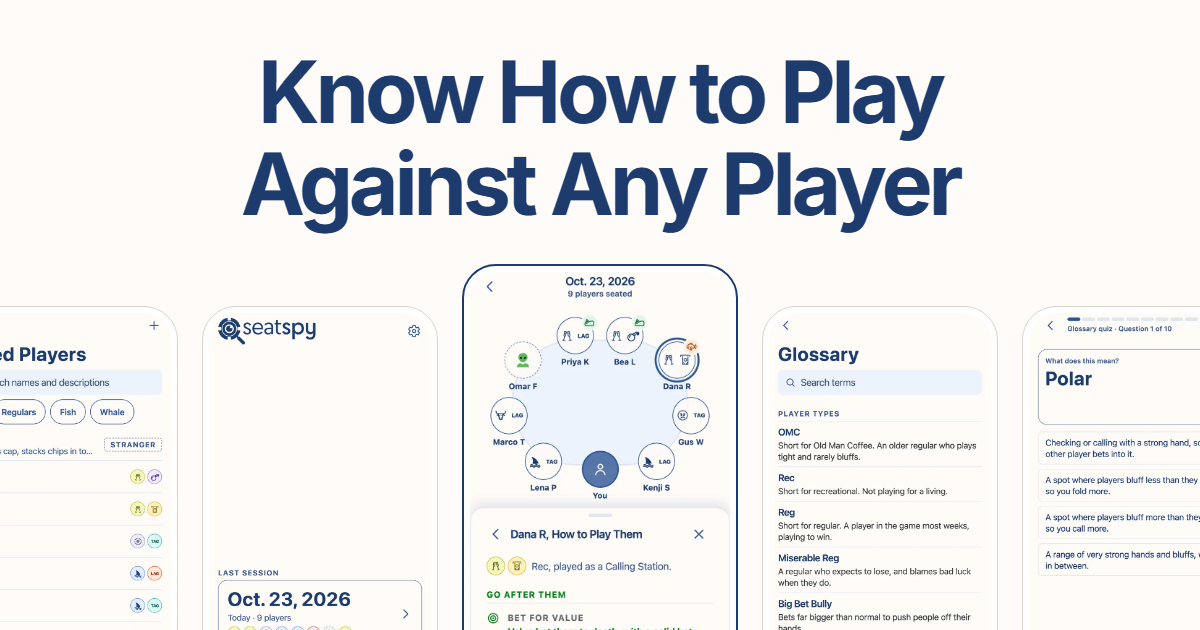
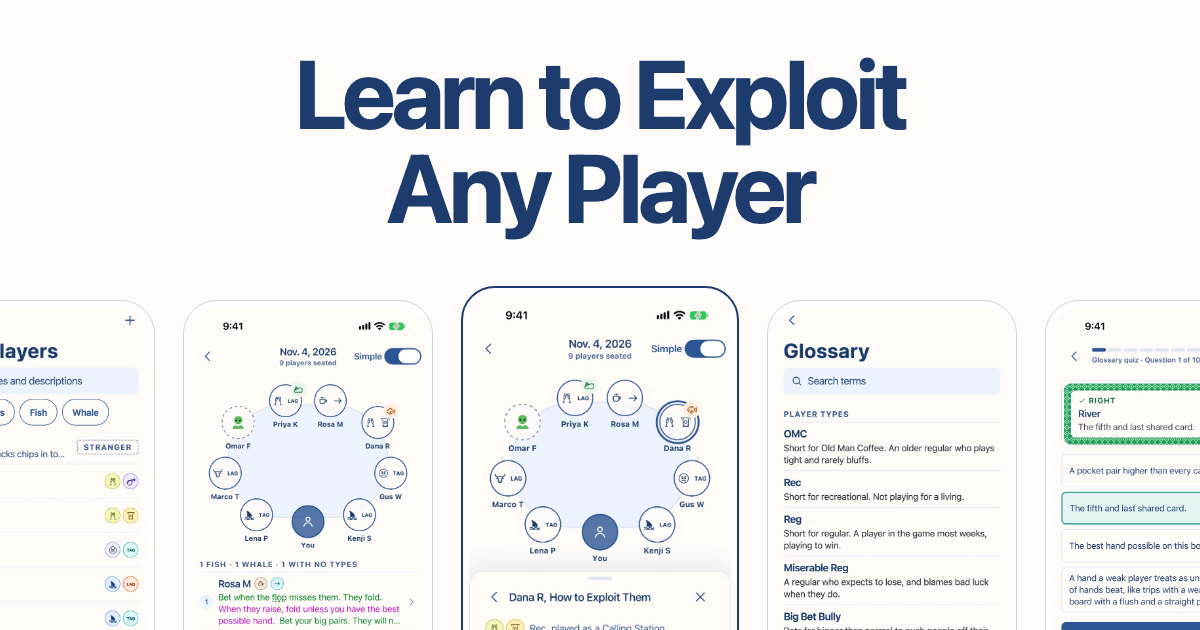
SeatSpy page: new social image with the current tagline and screens, How it works heading

diff --git a/seatspy/index.html b/seatspy/index.html
@@ -7,7 +7,7 @@
   <meta name="description" content="SeatSpy is an app for iPhone and Android that keeps a read on every poker player you face, and tells you how to exploit them.">
   <meta property="og:title" content="SeatSpy: Learn to Exploit Any Player at the Table">
   <meta property="og:description" content="An app for iPhone and Android that keeps a read on every poker player you face, and tells you how to exploit them.">
-  <meta property="og:image" content="https://colossalhippo.com/seatspy/og.png?v=3">
+  <meta property="og:image" content="https://colossalhippo.com/seatspy/og.png?v=4">
   <meta property="og:url" content="https://colossalhippo.com/seatspy/">
   <meta name="twitter:card" content="summary_large_image">
   <link rel="icon" href="favicon.png">
@@ -72,7 +72,7 @@
 </section>
 
 <section class="how" id="how">
-  <h2 class="t-reveal">How It Works</h2>
+  <h2 class="t-reveal">How it works, from the first seat to the next session</h2>
   <ol class="steps">
     <li class="step t-reveal">
       <h3>Seat the Players</h3>
